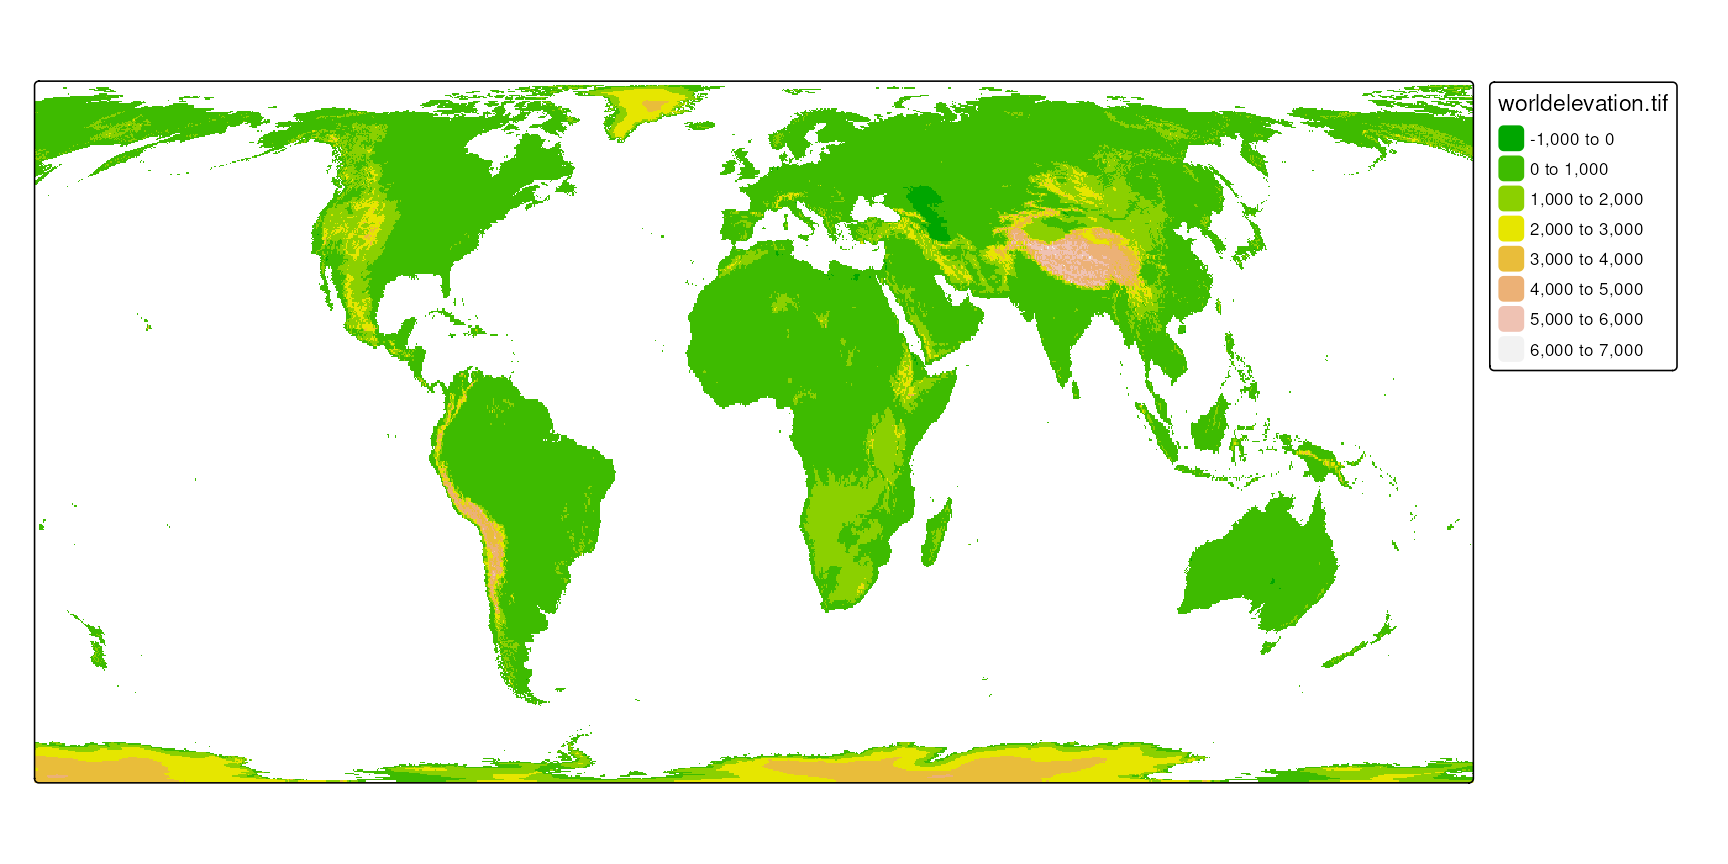
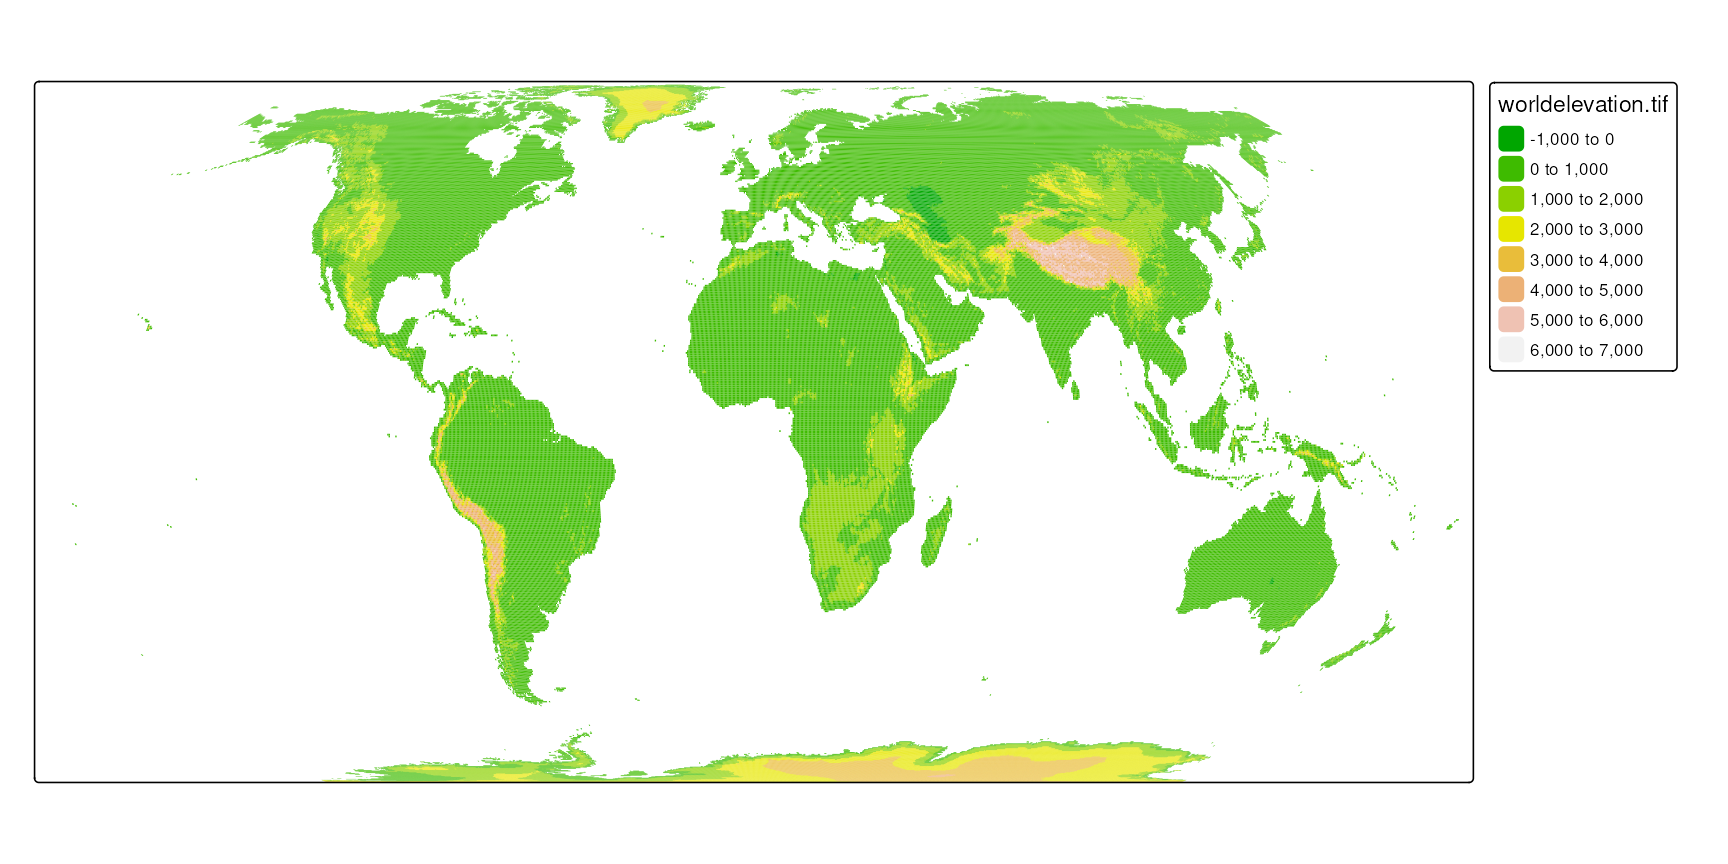
Deploy commit: completes map proj a68551485b196bfe9d46502c4bae2278b89b285c

diff --git a/map-projections.html b/map-projections.html
@@ -466,7 +466,7 @@ window.Quarto = {
 <p>The world is depicted as an orange in <a href="#fig-orange" class="quarto-xref">Figure&nbsp;<span>13.1</span></a>, not just to stimulate your appetite for this subject, but also because an orange peel serves as a good analogy for a two-dimensional map. A world map can be seen as an orange peel laid out on the table. The question is how to peel the orange and how to put the peel flat on the table.</p>
 <div class="cell" data-layout-align="center">
 <div class="cell-output-display">
-<div id="fig-orange" class="quarto-float quarto-figure quarto-figure-center anchored" data-fig-align="center" data-fig-scap="How to peel an orange?">
+<div id="fig-orange" class="quarto-float quarto-figure quarto-figure-center anchored" data-fig-scap="How to peel an orange?" data-fig-align="center">
 <figure class="quarto-float quarto-float-fig figure"><div aria-describedby="fig-orange-caption-0ceaefa1-69ba-4598-a22c-09a6ac19f8ca">
 <img src="images/orange_world.png" class="img-fluid quarto-figure quarto-figure-center figure-img" style="width:100.0%" data-fig-scap="How to peel an orange?">
 </div>
@@ -1038,7 +1038,8 @@ Table&nbsp;13.2: Recommended projections for different areas.
 </div>
 <p>Alternatively, it is possible to set the CRS when creating a new <code>sf</code> object, as you can see below.</p>
 <div class="cell" data-layout-align="center">
-<div class="sourceCode" id="cb4"><pre class="downlit sourceCode r code-with-copy"><code class="sourceCode R"><span><span class="va">waterfalls_sf</span> <span class="op">=</span> <span class="fu"><a href="https://r-spatial.github.io/sf/reference/st_as_sf.html">st_as_sf</a></span><span class="op">(</span><span class="va">waterfalls</span>, coords <span class="op">=</span> <span class="fu"><a href="https://rdrr.io/r/base/c.html">c</a></span><span class="op">(</span><span class="st">"lon"</span>, <span class="st">"lat"</span><span class="op">)</span>, crs <span class="op">=</span> <span class="st">"EPSG:4326"</span><span class="op">)</span></span></code><button title="Copy to Clipboard" class="code-copy-button"><i class="bi"></i></button></pre></div>
+<div class="sourceCode" id="cb4"><pre class="downlit sourceCode r code-with-copy"><code class="sourceCode R"><span><span class="va">waterfalls_sf</span> <span class="op">=</span> <span class="fu"><a href="https://r-spatial.github.io/sf/reference/st_as_sf.html">st_as_sf</a></span><span class="op">(</span><span class="va">waterfalls</span>, </span>
+<span>                         coords <span class="op">=</span> <span class="fu"><a href="https://rdrr.io/r/base/c.html">c</a></span><span class="op">(</span><span class="st">"lon"</span>, <span class="st">"lat"</span><span class="op">)</span>, crs <span class="op">=</span> <span class="st">"EPSG:4326"</span><span class="op">)</span></span></code><button title="Copy to Clipboard" class="code-copy-button"><i class="bi"></i></button></pre></div>
 </div>
 <p>The <code><a href="https://r-spatial.github.io/sf/reference/st_transform.html">st_transform()</a></code> function is used to convert the existing vector spatial object’s coordinates into another projection. For example, let’s transform our <code>waterfalls_sf</code> object to the Equal Earth projection (<code>EPSG:8857</code>).</p>
 <div class="cell" data-layout-align="center">
@@ -1182,8 +1183,7 @@ Figure&nbsp;13.12: Map with data projected into the automatically selected proje
 </div>
 </section><section id="raster-data" class="level3" data-number="13.7.2"><h3 data-number="13.7.2" class="anchored" data-anchor-id="raster-data">
 <span class="header-section-number">13.7.2</span> Raster data</h3>
-<p>The above features of the <code><a href="https://r-tmap.github.io/tmap/reference/tm_crs.html">tm_crs()</a></code> function also apply to raster data. However, at the same time, reprojecting raster data is more complex than reprojecting vector data. Reprojections of vector data are usually straightforward because each spatial coordinate is reprojected individually. <!-- mention invalid geometries? --> Reprojecting of raster data, on the other hand, is more complex and requires using one of two approaches. The first approach applies raster warping, which is a name for two separate spatial operations: the creation of a new regular raster object and the computation of new pixel values through resampling (for more details, read Chapter 7 of <span class="citation" data-cites="lovelace_geocomputation_2025">Lovelace, Nowosad, and Muenchow (<a href="references.html#ref-lovelace_geocomputation_2025" role="doc-biblioref">2025</a>)</span>). This is the default option in <strong>tmap</strong>, however, it has some limitations and it is not always possible to use it. The second approach involves transforming the coordinates of the raster cells, resulting in a curvilinear grid.</p>
-<p>Let’s see how to use these two approaches in <strong>tmap</strong> based on the <code>worldelevation.tif</code> raster data.</p>
+<p>The above features of the <code><a href="https://r-tmap.github.io/tmap/reference/tm_crs.html">tm_crs()</a></code> function also apply to raster data. However, at the same time, reprojecting raster data is more complex than reprojecting vector data. Reprojections of vector data are usually straightforward because each spatial coordinate is reprojected individually. <!-- mention invalid geometries? --> Reprojecting of raster data, on the other hand, is more complex and requires using one of two approaches. The first approach applies raster warping, which is a name for two separate spatial operations: the creation of a new regular raster object and the computation of new pixel values through resampling (for more details, read Chapter 7 of <span class="citation" data-cites="lovelace_geocomputation_2025">Lovelace, Nowosad, and Muenchow (<a href="references.html#ref-lovelace_geocomputation_2025" role="doc-biblioref">2025</a>)</span>). This is the default option in <strong>tmap</strong>, however, it has some limitations and it is not always possible to use it. The second approach involves transforming the coordinates of the raster cells, resulting in a curvilinear grid. Let’s see how to use these two approaches in <strong>tmap</strong> based on the <code>worldelevation.tif</code> raster data.</p>
 <div class="cell" data-layout-align="center">
 <div class="sourceCode" id="cb11"><pre class="downlit sourceCode r code-with-copy"><code class="sourceCode R"><span><span class="kw"><a href="https://rdrr.io/r/base/library.html">library</a></span><span class="op">(</span><span class="va"><a href="https://r-spatial.github.io/stars/">stars</a></span><span class="op">)</span></span>
 <span><span class="va">worldelevation</span> <span class="op">=</span> <span class="fu"><a href="https://r-spatial.github.io/stars/reference/read_stars.html">read_stars</a></span><span class="op">(</span><span class="st">"data/worldelevation.tif"</span><span class="op">)</span></span></code><button title="Copy to Clipboard" class="code-copy-button"><i class="bi"></i></button></pre></div>
@@ -1199,7 +1199,7 @@ Figure&nbsp;13.12: Map with data projected into the automatically selected proje
 <div class="cell" data-layout-align="center">
 <div class="sourceCode" id="cb13"><pre class="downlit sourceCode r code-with-copy"><code class="sourceCode R"><span><span class="fu"><a href="https://r-tmap.github.io/tmap/reference/tm_shape.html">tm_shape</a></span><span class="op">(</span><span class="va">worldelevation</span><span class="op">)</span> <span class="op">+</span></span>
 <span>  <span class="fu"><a href="https://r-tmap.github.io/tmap/reference/tm_raster.html">tm_raster</a></span><span class="op">(</span>col.scale <span class="op">=</span> <span class="fu"><a href="https://r-tmap.github.io/tmap/reference/tm_scale.html">tm_scale</a></span><span class="op">(</span>values <span class="op">=</span> <span class="fu"><a href="https://rdrr.io/r/grDevices/palettes.html">terrain.colors</a></span><span class="op">(</span><span class="fl">8</span><span class="op">)</span><span class="op">)</span><span class="op">)</span> <span class="op">+</span></span>
-<span>  <span class="fu"><a href="https://r-tmap.github.io/tmap/reference/tm_crs.html">tm_crs</a></span><span class="op">(</span><span class="st">"+proj=eqearth"</span><span class="op">)</span> <span class="co"># or "EPSG:8857"</span></span>
+<span>  <span class="fu"><a href="https://r-tmap.github.io/tmap/reference/tm_crs.html">tm_crs</a></span><span class="op">(</span><span class="st">"+proj=eqearth"</span><span class="op">)</span> <span class="op">+</span></span>
 <span>  <span class="fu"><a href="https://r-tmap.github.io/tmap/reference/tm_options.html">tm_options</a></span><span class="op">(</span>raster.warp <span class="op">=</span> <span class="cn">FALSE</span><span class="op">)</span></span></code><button title="Copy to Clipboard" class="code-copy-button"><i class="bi"></i></button></pre></div>
 </div>
 <div class="cell" data-layout-nrow="2" data-layout-align="center">
@@ -1239,23 +1239,24 @@ Figure&nbsp;13.13: Two elevation maps in the Equal Earth projection
 <!-- about reprojecting first vs later - why and how -->
 </section></section><section id="customizing-maps-for-global-projections" class="level2" data-number="13.8"><h2 data-number="13.8" class="anchored" data-anchor-id="customizing-maps-for-global-projections">
 <span class="header-section-number">13.8</span> Customizing maps for global projections</h2>
-<!-- tm + tm_style("natural") -->
+<p>The <strong>tmap</strong> package also offers several additional features that can be used to customize maps with global projections. For instance, the <code><a href="https://r-tmap.github.io/tmap/reference/tm_layout.html">tm_layout()</a></code> function has an argument <code>earth_boundary</code> that can be set to <code>TRUE</code> to add a boundary around the Earth. Then, we can also set the <code>bg.color</code> argument to specify the background color of the map, which will only apply to the area inside the Earth boundary for a given projection (<a href="#fig-mproj3" class="quarto-xref">Figure&nbsp;<span>13.14</span></a>). <!-- should we mention tm + tm_style("natural") ?--></p>
 <div class="cell" data-layout-align="center">
 <div class="sourceCode" id="cb14"><pre class="downlit sourceCode r code-with-copy"><code class="sourceCode R"><span><span class="va">tm</span> <span class="op">+</span></span>
-<span>  <span class="fu"><a href="https://r-tmap.github.io/tmap/reference/tm_crs.html">tm_crs</a></span><span class="op">(</span><span class="st">"+proj=eck4"</span><span class="op">)</span> <span class="op">+</span></span>
-<span>  <span class="fu"><a href="https://r-tmap.github.io/tmap/reference/tm_layout.html">tm_layout</a></span><span class="op">(</span>bg.color <span class="op">=</span> <span class="st">"lightblue"</span>,</span>
-<span>            earth_boundary <span class="op">=</span> <span class="cn">TRUE</span><span class="op">)</span></span></code><button title="Copy to Clipboard" class="code-copy-button"><i class="bi"></i></button></pre></div>
+<span>  <span class="fu"><a href="https://r-tmap.github.io/tmap/reference/tm_crs.html">tm_crs</a></span><span class="op">(</span><span class="st">"+proj=eqearth"</span><span class="op">)</span> <span class="op">+</span></span>
+<span>  <span class="fu"><a href="https://r-tmap.github.io/tmap/reference/tm_layout.html">tm_layout</a></span><span class="op">(</span>earth_boundary <span class="op">=</span> <span class="cn">TRUE</span>,</span>
+<span>            bg.color <span class="op">=</span> <span class="st">"lightblue"</span><span class="op">)</span></span></code><button title="Copy to Clipboard" class="code-copy-button"><i class="bi"></i></button></pre></div>
 <div class="cell-output-display">
 <div id="fig-mproj3" class="quarto-float quarto-figure quarto-figure-center anchored" data-fig-align="center">
 <figure class="quarto-float quarto-float-fig figure"><div aria-describedby="fig-mproj3-caption-0ceaefa1-69ba-4598-a22c-09a6ac19f8ca">
 <img src="figures/fig-mproj3-1.png" class="img-fluid quarto-figure quarto-figure-center figure-img" style="width:100.0%">
 </div>
 <figcaption class="quarto-float-caption-bottom quarto-float-caption quarto-float-fig" id="fig-mproj3-caption-0ceaefa1-69ba-4598-a22c-09a6ac19f8ca">
-Figure&nbsp;13.14: Map with data projected into Eckert IV and with a customized style.
+Figure&nbsp;13.14: Map with data projected into Equal Earth and with a customized style.
 </figcaption></figure>
 </div>
 </div>
 </div>
+<p>These features can be used to create more visually appealing maps. They are available to a large set of projections<a href="#fn2" class="footnote-ref" id="fnref2" role="doc-noteref"><sup>2</sup></a>, some of which are shown in <a href="#fig-exprojs" class="quarto-xref">Figure&nbsp;<span>13.15</span></a>. You may notice that these projections have not only different visual styles but also different shapes of the Earth boundary and focus on preserving different map projection properties.</p>
 <div class="cell" data-layout-align="center">
 <div class="cell-output-display">
 <div id="fig-exprojs" class="quarto-float quarto-figure quarto-figure-center anchored" data-fig-align="center">
@@ -1268,25 +1269,15 @@ Figure&nbsp;13.15: Examples of map projections for the whole world.
 </div>
 </div>
 </div>
-<!-- https://proj.org/en/stable/operations/projections/index.html -->
-<!-- maybe bbox could be a part of tm_crs? -->
-<!-- https://github.com/r-tmap/tmap/issues/1152#issuecomment-3007324769 -->
-<!-- https://github.com/r-tmap/tmap/issues/1156#issuecomment-3030990315 -->
-<div class="sourceCode" id="cb15"><pre class="downlit sourceCode r code-with-copy"><code class="sourceCode R"><span><span class="fu"><a href="https://r-tmap.github.io/tmap/reference/tm_shape.html">tm_shape</a></span><span class="op">(</span><span class="va">worldvector</span><span class="op">)</span> <span class="op">+</span></span>
-<span>  <span class="fu"><a href="https://r-tmap.github.io/tmap/reference/tm_polygons.html">tm_polygons</a></span><span class="op">(</span><span class="op">)</span>  <span class="op">+</span></span>
-<span>  <span class="fu"><a href="https://r-tmap.github.io/tmap/reference/tm_shape.html">tm_shape</a></span><span class="op">(</span><span class="va">worldcities</span><span class="op">)</span> <span class="op">+</span></span>
-<span>  <span class="fu"><a href="https://r-tmap.github.io/tmap/reference/tm_symbols.html">tm_dots</a></span><span class="op">(</span><span class="op">)</span> <span class="op">+</span></span>
-<span>  <span class="fu"><a href="https://r-tmap.github.io/tmap/reference/tm_text.html">tm_text</a></span><span class="op">(</span><span class="st">"name"</span><span class="op">)</span> <span class="op">+</span></span>
+<!-- Martijn, is there any way to add proper grid lines/graticules for the maps above? -->
+<p>One particular projection that is worth mentioning is the <em>orthographic projection</em>. It is a planar projection that represents the Earth as if it were viewed from space, with the center of the projection at a specific latitude and longitude. We can use the <code><a href="https://r-tmap.github.io/tmap/reference/tm_crs.html">tm_crs()</a></code> function to apply the orthographic projection with the <code>+proj=ortho</code> argument, and then set the <code>lat_0</code> and <code>lon_0</code> parameters to specify the center of the projection. <a href="#fig-mproj-ortho" class="quarto-xref">Figure&nbsp;<span>13.16</span></a> shows two examples of the orthographic projection centered on different coordinates: the first one is centered on 30<span class="math inline">\(^\circ\)</span>N, 0<span class="math inline">\(^\circ\)</span>E, and the second one is centered on 0<span class="math inline">\(^\circ\)</span>N/S, 100<span class="math inline">\(^\circ\)</span>E.</p>
+<div class="sourceCode" id="cb15"><pre class="downlit sourceCode r code-with-copy"><code class="sourceCode R"><span><span class="va">tm</span> <span class="op">+</span></span>
 <span>  <span class="fu"><a href="https://r-tmap.github.io/tmap/reference/tm_grid.html">tm_graticules</a></span><span class="op">(</span>labels.show <span class="op">=</span> <span class="cn">FALSE</span><span class="op">)</span> <span class="op">+</span></span>
 <span>  <span class="fu"><a href="https://r-tmap.github.io/tmap/reference/tm_crs.html">tm_crs</a></span><span class="op">(</span><span class="st">"+proj=ortho +lat_0=30 +lon_0=0"</span>, bbox <span class="op">=</span> <span class="st">"FULL"</span><span class="op">)</span><span class="op">+</span></span>
 <span>  <span class="fu"><a href="https://r-tmap.github.io/tmap/reference/tm_layout.html">tm_layout</a></span><span class="op">(</span>bg.color <span class="op">=</span> <span class="st">"lightblue"</span>,</span>
 <span>            earth_boundary <span class="op">=</span> <span class="cn">TRUE</span>,</span>
 <span>            frame <span class="op">=</span> <span class="cn">FALSE</span><span class="op">)</span></span>
-<span><span class="fu"><a href="https://r-tmap.github.io/tmap/reference/tm_shape.html">tm_shape</a></span><span class="op">(</span><span class="va">worldvector</span><span class="op">)</span> <span class="op">+</span></span>
-<span>  <span class="fu"><a href="https://r-tmap.github.io/tmap/reference/tm_polygons.html">tm_polygons</a></span><span class="op">(</span><span class="op">)</span>  <span class="op">+</span></span>
-<span>  <span class="fu"><a href="https://r-tmap.github.io/tmap/reference/tm_shape.html">tm_shape</a></span><span class="op">(</span><span class="va">worldcities</span><span class="op">)</span> <span class="op">+</span></span>
-<span>  <span class="fu"><a href="https://r-tmap.github.io/tmap/reference/tm_symbols.html">tm_dots</a></span><span class="op">(</span><span class="op">)</span> <span class="op">+</span></span>
-<span>  <span class="fu"><a href="https://r-tmap.github.io/tmap/reference/tm_text.html">tm_text</a></span><span class="op">(</span><span class="st">"name"</span><span class="op">)</span> <span class="op">+</span></span>
+<span><span class="va">tm</span> <span class="op">+</span></span>
 <span>  <span class="fu"><a href="https://r-tmap.github.io/tmap/reference/tm_grid.html">tm_graticules</a></span><span class="op">(</span>labels.show <span class="op">=</span> <span class="cn">FALSE</span><span class="op">)</span> <span class="op">+</span></span>
 <span>  <span class="fu"><a href="https://r-tmap.github.io/tmap/reference/tm_crs.html">tm_crs</a></span><span class="op">(</span><span class="st">"+proj=ortho +lat_0=0 +lon_0=100"</span>, bbox <span class="op">=</span> <span class="st">"FULL"</span><span class="op">)</span><span class="op">+</span></span>
 <span>  <span class="fu"><a href="https://r-tmap.github.io/tmap/reference/tm_layout.html">tm_layout</a></span><span class="op">(</span>bg.color <span class="op">=</span> <span class="st">"lightblue"</span>,</span>
@@ -1321,6 +1312,19 @@ Figure&nbsp;13.15: Examples of map projections for the whole world.
 Figure&nbsp;13.16: Orthographic projection examples.
 </figcaption></figure>
 </div>
+<div class="callout callout-style-default callout-note callout-titled">
+<div class="callout-header d-flex align-content-center">
+<div class="callout-icon-container">
+<i class="callout-icon"></i>
+</div>
+<div class="callout-title-container flex-fill">
+Note
+</div>
+</div>
+<div class="callout-body-container callout-body">
+<p>Note, that in these examples, the <code>bbox</code> argument is set to <code>"FULL"</code>, which means that the whole Earth is displayed – it is useful when the extent of the data is smaller than the whole Earth.</p>
+</div>
+</div>
 <!-- ## Local map projections in **tmap** -->
 <!-- local? -->
 <!-- properies -->
@@ -1335,6 +1339,7 @@ Lovelace, Robin, Jakub Nowosad, and Jannes Muenchow. 2025. <em>Geocomputation wi
 </section><section id="footnotes" class="footnotes footnotes-end-of-document" role="doc-endnotes"><hr>
 <ol>
 <li id="fn1"><p>For more details of the first approach, see <code>?stars::st_warp()</code> and of the second approach, see <code>?stars::st_transform()</code>.<a href="#fnref1" class="footnote-back" role="doc-backlink">↩</a></p></li>
+<li id="fn2"><p>Find more projections in the PROJ documentation at <a href="https://proj.org/en/stable/operations/projections" class="uri">https://proj.org/en/stable/operations/projections</a><a href="#fnref2" class="footnote-back" role="doc-backlink">↩</a></p></li>
 </ol></section></main><!-- /main --><script id="quarto-html-after-body" type="application/javascript">
   window.document.addEventListener("DOMContentLoaded", function (event) {
     const icon = "";

diff --git a/visual-variables.html b/visual-variables.html
@@ -887,7 +887,7 @@ Figure&nbsp;7.10: Example of a map where text sizes represent elevations of the 
 <span>             shape.scale <span class="op">=</span> <span class="fu">tm_scale</span><span class="op">(</span>values <span class="op">=</span> <span class="va">my_icons</span><span class="op">)</span><span class="op">)</span></span></code><button title="Copy to Clipboard" class="code-copy-button"><i class="bi"></i></button></pre></div>
 </div>
 <div class="cell" data-layout-align="center" data-layout-row="2">
-<div id="fig-tmsymshape" class="cell quarto-float quarto-figure quarto-figure-center anchored" data-layout-row="2" data-layout-align="center">
+<div id="fig-tmsymshape" class="cell quarto-float quarto-figure quarto-figure-center anchored" data-layout-align="center" data-layout-row="2">
 <figure class="quarto-float quarto-float-fig figure"><div aria-describedby="fig-tmsymshape-caption-0ceaefa1-69ba-4598-a22c-09a6ac19f8ca">
 <div class="cell-output-display">
 <div id="fig-tmsymshape-1" class="quarto-float quarto-figure quarto-figure-center anchored" data-fig-align="center">
